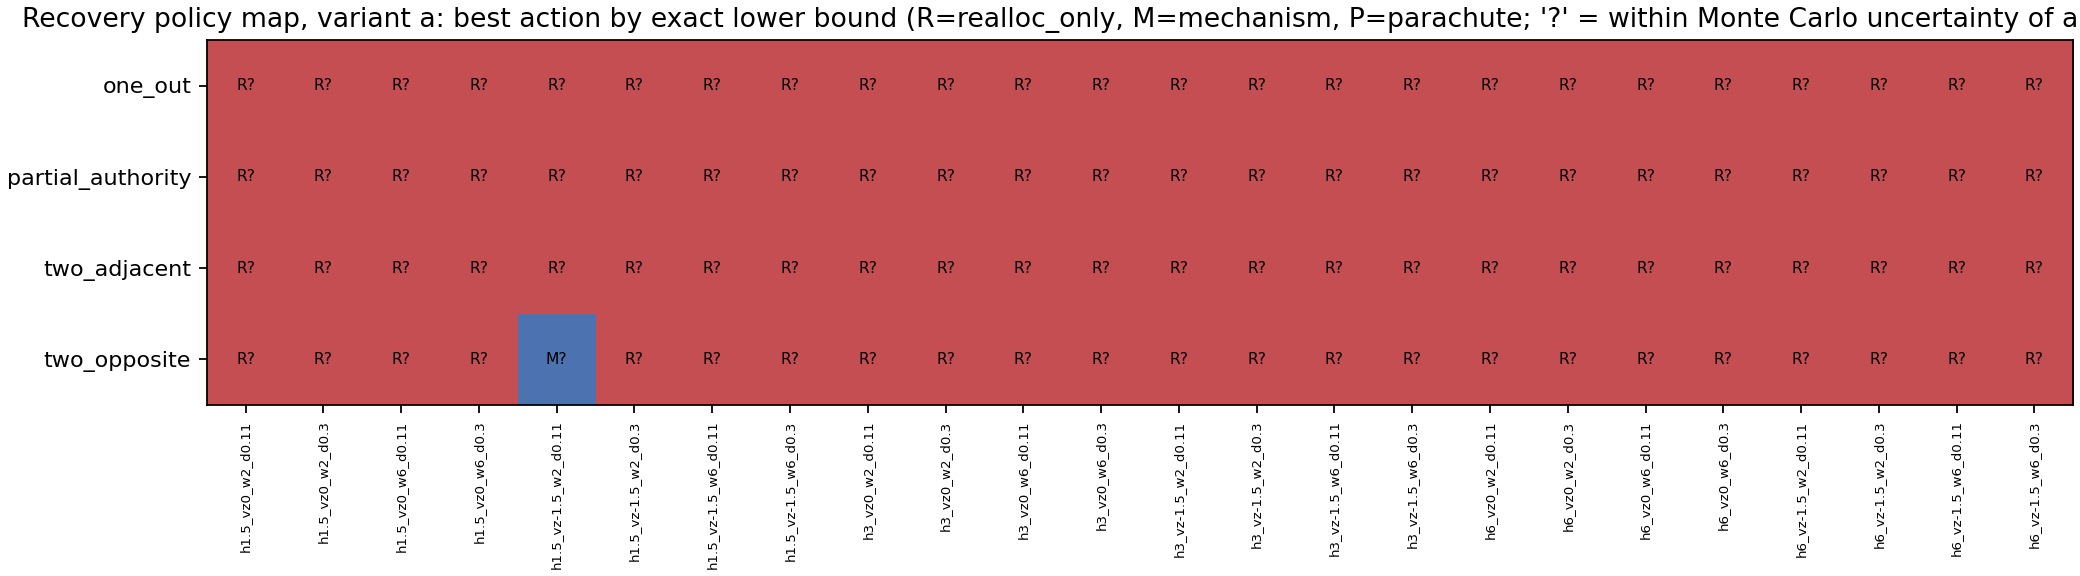
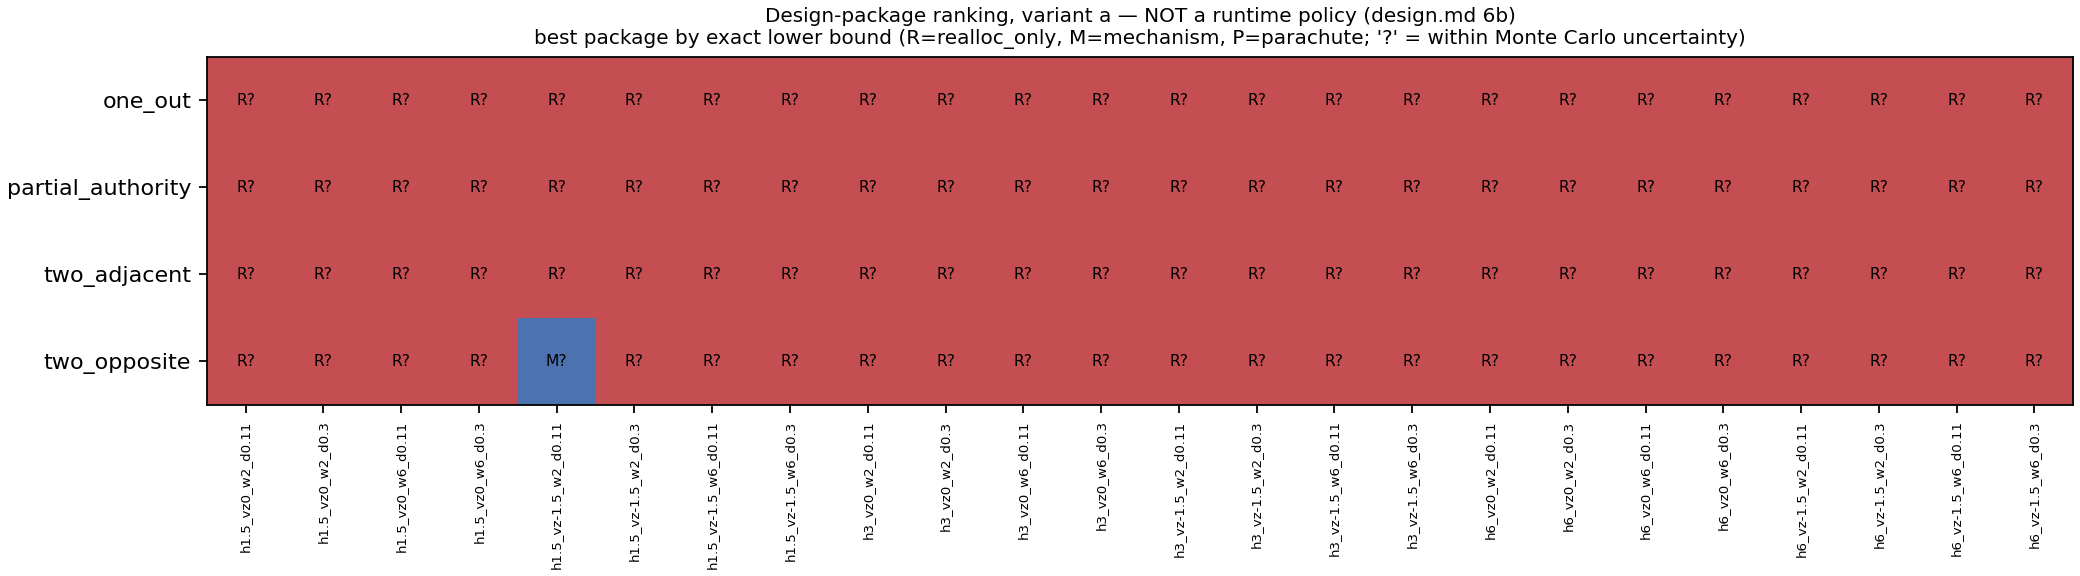
docs+fix: reconcile the scope correction, record deferred critique items, label the scenario
Follow-up to PR #36. Auditing the merged state turned up three gaps, all
introduced or claimed by me, plus the safe half of C04.

1. SELF-CONTRADICTION. PR #36 added design.md section 6b ("a design
   comparison, not a runtime policy") but left the opposite claim standing
   in the places a reader meets first: section 1 still advertised "a policy
   over the post-failure state" as the contribution, section 8 was titled
   "policy map", README called it a policy map, the novelty differentiator
   table claimed a policy as our column, and the generated figure was
   titled "Recovery policy map". All reconciled; figures regenerated. The
   JSON field stays named `policy` for file compatibility, with the spec
   stating plainly that it ranks configurations.

2. DEFERRED ITEMS WERE NOT ACTUALLY RECORDED. C04, C06, the C08 remainder
   and C10 were described as "recorded" in a merged PR description while
   existing nowhere in the repository -- exactly the drift this repo's
   conventions exist to prevent. Added
   docs/specs/survivable-set/critique-2026-09-24-status.md: all ten items,
   their status, and each deferred item stated precisely enough to act on.
   Linked from docs/data-and-figures.md.

3. NO OPEN QUESTION FOR THE GUARD'S CAUSAL MECHANISM. C05 established that
   the inverted-authority floor is enabled iff the guard is present with no
   stated mechanism, but nothing tracked it. Added OQ-013.

Also implemented, as the safe half of C04: the scenario is now named.
[…]

diff --git a/Analysis/run_survivable_set.py b/Analysis/run_survivable_set.py
@@ -169,9 +169,10 @@ def policy_figure(policy, path: Path, variant: str):
         ax.text(j, i, letter + m, ha="center", va="center", fontsize=7)
     ax.set_yticks(range(len(classes)), classes)
     ax.set_xticks(range(len(cells)), cells, rotation=90, fontsize=6)
-    ax.set_title(f"Recovery policy map, variant {variant}: best action by exact "
-                 "lower bound (R=realloc_only, M=mechanism, P=parachute; "
-                 "'?' = within Monte Carlo uncertainty of an alternative)")
+    ax.set_title(f"Design-package ranking, variant {variant} — NOT a runtime "
+                 "policy (design.md 6b)\nbest package by exact lower bound "
+                 "(R=realloc_only, M=mechanism, P=parachute; "
+                 "'?' = within Monte Carlo uncertainty)", fontsize=9)
     fig.savefig(path, dpi=160)
     plt.close(fig)
 
@@ -270,6 +271,12 @@ def preregistration_block(scale):
                    "primary": ss.PRIMARY_TRIALS // scale,
                    "parachute": ss.PARACHUTE_TRIALS // scale},
         "base_seed": ss.BASE_SEED,
+        "scenario": ss.SCENARIO,
+        "scenario_note": ("All motors are off for detection+spool latency, then "
+                          "the controller engages: a RELEASE/STARTUP transient, "
+                          "NOT an in-flight failure in which healthy motors keep "
+                          "running until detection. Every rotor-out result here "
+                          "is conditional on that reading (critique C04)."),
         "machinery_rev": ("2026-09-16: cascaded torque-priority allocation, "
                           "balanced collective ceiling (0.9 airmode reserve in "
                           "allocation mode), arrest-first descent; supersedes the "

diff --git a/Analysis/survivable_set.py b/Analysis/survivable_set.py
@@ -99,6 +99,22 @@ PARACHUTE_DEPLOY_S = 0.8                     # trigger -> canopy starts opening 
 PARACHUTE_INFLATE_S = 0.6
 PARACHUTE_TILT_MAX_RAD = radians(45.0)       # pendulum under canopy, drawn U(0, max)
 
+# SCENARIO LABEL (critique C04, 2026-09-24). The simulator cuts ALL FOUR motors
+# for detection_latency + motor_start_latency and only then engages the
+# controller. That is a RELEASE / STARTUP transient: it describes a vehicle
+# dropped with motors off, which must spool up. It is NOT an in-flight failure,
+# where the healthy motors keep running and keep following the nominal controller
+# until the fault is detected and the allocation reconfigures.
+#
+# Every rotor-out number this study produces is therefore conditional on the
+# release-startup reading, and must be labelled as such wherever it is reported.
+# Implementing the in-flight mode (`in_flight_loss`) needs its own registration:
+# the pre-failure command, the failed rotor's residual thrust, the healthy motors'
+# behaviour during detection, when fault-aware allocation begins, and whether
+# actuator response is instantaneous or lagged. See
+# docs/specs/survivable-set/critique-2026-09-24-status.md (C04).
+SCENARIO = "release_startup"
+
 DESCENT_RATE_M_S = 1.0                       # commanded touchdown descent rate
 INIT_TILT_MAX_RAD = radians(30.0)            # tilt at failure, drawn U(0, max)
 ARM_M = 0.060                                # ASSUMED build arm (matches run_sweep)

diff --git a/Analysis/tests/test_survivable_set.py b/Analysis/tests/test_survivable_set.py
@@ -193,6 +193,27 @@ class TestKillCriterion(unittest.TestCase):
         self.assertTrue(verdict["comparisons"][0]["realloc_dominates"])
 
 
+class TestScenarioLabelling(unittest.TestCase):
+    """C04: the scenario must be named, and the name must match the dynamics."""
+
+    def test_scenario_is_labelled_release_startup(self):
+        self.assertEqual(ss.SCENARIO, "release_startup")
+
+    def test_all_motors_are_off_during_the_latency_window(self):
+        """The label is only honest if the sim really cuts every motor first.
+        If someone implements in_flight_loss, this test must be updated with it,
+        not deleted."""
+        p = with_mixer(nominal_params())
+        r = simulate(p, 2.0, radians(15.0), descent_rate_m_s=1.0, t_max=4.0)
+        passive = p.detection_latency_s + p.motor_start_latency_s
+        t, thrust = r["log"]["t"], r["log"]["thrust"]
+        during = [th for ti, th in zip(t, thrust) if ti < passive]
+        self.assertTrue(during, "no samples inside the latency window")
+        self.assertEqual(max(during), 0.0,
+                         "thrust is non-zero before the controller engages, so "
+                         "'release_startup' no longer describes the dynamics")
+
+
 class TestPairedAnalysis(unittest.TestCase):
     """literature/claim-ledger.md E1: the action comparison is paired."""
 

diff --git a/docs/specs/survivable-set/critique-2026-09-24-status.md b/docs/specs/survivable-set/critique-2026-09-24-status.md
@@ -1,0 +1,80 @@
+# External critique of 2026-09-24 — item status
+
+Source: owner handoff `multirotor-recovery-dynamics_literature-critique_2026-09-24.txt`
+(planning document, outside the repo). This file is the in-repo record of what was
+applied, what was deferred and why, so that nothing survives only in a merged pull
+request description. Created 2026-09-24 after noticing that C04/C06/C08/C10 were
+described as "recorded" while existing nowhere in the repository.
+
+Applied items were merged in PR #36; the consistency follow-ups in this file's own
+change. Status values: **applied** / **partly applied** / **deferred (recorded)**.
+
+| # | Item | Status | Where |
+| --- | --- | --- | --- |
+| C01 | Separate design selection from actions available in flight | **applied** | `design.md` §6b; `Analysis/current-results.md`; §1 and §8 reconciled 2026-09-24 |
+| C02 | Correct novelty claims (detection-delay distribution; sub-35 g counterexample) | **applied** | `literature/notes/01` §6, `notes/02` §4, ledger G2/G3, `novelty-and-gaps.md` |
+| C03 | Repair parachute evidence provenance; stop calling calibration validation | **applied** | `Analysis/survivable_set.py`, renamed test, `design.md` §4, ledger C1 |
+| C04 | Make the failure scenario and recovery metric physically consistent | **partly applied** | scenario now named and emitted (`design.md` §6a, `SCENARIO`, `scenario` field, test); the `in_flight_loss` mode and the three outcome definitions remain deferred — see below |
+| C05 | Do not attribute the guard's benefit to an arbitrary controller restriction | **applied** | `design.md` §6b |
+| C06 | Preserve bench instrumentation; add an observability contract | **deferred (recorded)** | see below |
+| C07 | Correct the spin-scaling argument | **applied** | `literature/notes/01` §6, ledger G2 |
+| C08 | Treat touchdown limits as an unvalidated proxy, not airframe survival | **partly applied** | `literature/notes/04` §7–8 already frames the band as an analogy; the contact-state record and load-cell bandwidth limits are deferred |
+| C09 | Improve statistics without overstating what pairing proves | **applied** | `Analysis/survivable_set.py` (Δ added), ledger E1/E2, `notes/05` |
+| C10 | Bound what "the boundary" means | **deferred (recorded)** | see below |
+
+## Deferred items, stated precisely enough to act on later
+
+**C04 — scenario and metric consistency.** *Partly applied 2026-09-24: the mode is
+now labelled `release_startup` in code and in every results file, with a test that
+fails if the dynamics stop matching the label. The modelling work below is what
+remains.* The simulator still cuts *all* motors
+for detection + startup latency, which is a release-startup scenario, not an
+in-flight failure: healthy motors should retain their states and follow the
+nominal controller until reconfiguration. The failure mode also needs specifying
+(motor stop vs propeller loss vs effectiveness loss vs power loss — these differ
+in thrust, torque, drag and inertia transients). Separately, the generic settled
+detector requires `‖ω‖ < 0.3 rad/s`, which is incompatible with a deliberately
+spinning equilibrium; it is **not** the landing classifier used by this study, so
+it did not cause the current results, but it cannot be reused as a
+spinning-recovery success flag. Three outcomes should be distinguished:
+(a) reduced-attitude regulation, (b) recovery before contact, with altitude
+consumed recorded, (c) landing/impact outcome. This is already open as F02 in
+`review-2026-09-19.md`; C04 sharpens it. **Blocks:** any claim that the study
+models an in-flight failure.
+
+**C06 — observability contract.** One row per desired output: quantity, sensor or
+source, frame, timing, range, uncertainty, availability. Aggregate force/current,
+specific force and beam events cannot establish per-motor thrust, body rates, full
+attitude, trajectory or failure identity, and must not be plotted with surrogate
+labels. For any future attitude sensing, record sample/filter delay, per-axis gyro
+range, clipping, and sensor position relative to CG — an offset sensor also feels
+`α × r` and `ω × (ω × r)` terms (20 rad/s at 10 mm ⇒ ~4 m/s² centripetal, which is
+not gravity tilt). **Home when actioned:** `docs/bench-acquisition.md`.
+
+**C08 remainder — contact-state record and instrument bandwidth.** A contact
+record should carry vertical and lateral velocity, attitude, angular velocity,
+surface, contact location, configuration and specimen history, with physical
+damage and post-event function stored independently of the kinematic proxy. The
+purchased static load-cell chain must not be promoted into an impact instrument:
+at 80 SPS samples are 12.5 ms apart (3.125 ms even at 320 SPS) before filter
+delay, so peak force needs demonstrated bandwidth and adequate samples over the
+contact. Repeated drops on one damaged specimen are not independent trials.
+
+**C10 — bound what "the boundary" means.** The map is conditional on limited
+tilt/tumble axes, one failure location per class, assumed parameter distributions
+and a landing proxy. Monte Carlo bounds quantify finite sampling *under that
+model*; they do not cover model error or real-world reliability, and more samples
+shrink only the first. Observational variation, specimen/condition variation and
+unknown parameters should be reported separately, with a scenario bracket rather
+than an invented uniform distribution where no data supports one. An executable
+selector observes *estimates*, not true state, so state uncertainty and diagnosis
+confidence belong in any future policy evaluation; an oracle policy is a labelled
+upper benchmark only.
+
+## Not accepted as stated
+
+None of the ten was rejected. C02's sub-35 g counterexample was **narrowed** on
+verification: Çintaş & Özyer (2026) demonstrate real-flight FTC at 30.6 g for
+**partial rotor-speed degradation**, not complete rotor loss, and the paper draws
+that distinction itself. It is therefore prior art for the `partial_authority`
+class, and the complete-loss statement survives as search-bounded.

diff --git a/docs/specs/survivable-set/design.md b/docs/specs/survivable-set/design.md
@@ -12,10 +12,16 @@ dedicated recovery mechanism (the guard) enlarge the survivable set beyond what
 thrust reallocation alone achieves?
 
 Known (not claimed as novel here): controlled flight after one- and two-rotor loss
-via thrust reallocation; parachute recovery of small UAS. Open (this study's
-contribution): a *policy* over the post-failure state that selects among actions,
-with a quantified survivable set that includes recovery delay and authority loss —
-and whether the mechanism is justified at all.
+via thrust reallocation — including two-adjacent loss in outdoor flight; parachute
+recovery of small UAS **at ≥900 g** (not established at sub-250 g).
+
+**What this study actually delivers, corrected 2026-09-24 (§6b):** a quantified
+comparison of **design packages** over the post-failure state, with recovery delay
+and authority loss as state coordinates, and a test of whether the mechanism is
+justified. It does **not** deliver a runtime policy: its cases differ in installed
+hardware, and no aircraft can choose its own mass in flight. A runtime policy over
+`A(c)` for one fixed configuration remains **specified but not performed** — see
+§6b and `literature/novelty-and-gaps.md`.
 
 ## 2. Post-failure state space
 
@@ -155,13 +161,34 @@ battery sag. Deterministic seeding per (class, cell, action, chunk) — base see
 The mechanism is justified **only if**, in at least one primary (class × cell), its
 95% lower bound exceeds `realloc_only`'s 95% upper bound — dominance beyond Monte
 Carlo uncertainty. Ties inside uncertainty do **not** justify it. If killed, the
-result is reported as such and the work redirects to the policy alone (Study B);
+result is reported as such and the work redirects to the package ranking alone (Study B);
 the mechanism is not redesigned first (see the plan's "do not" clause).
 
 Interpretation clause: a kill reached because **both** actions fail in a cell
 (`both_actions_fail` in the output) is a controller finding, not evidence that the
 actions are interchangeable — it redirects to the controller follow-on below, and
 the mechanism question stays open only if a future controller separates the actions.
+
+## 6a. Scenario label (amendment, 2026-09-24)
+
+Critique C04. The simulator cuts **all four motors** for
+`detection_latency + motor_start_latency` and only then engages the controller.
+That is a **release/startup transient** — a vehicle dropped with motors off which
+must spool up. It is **not** an in-flight failure, where healthy motors keep
+running under the nominal controller until detection and reconfiguration.
+
+The mode is now named in code (`Analysis/survivable_set.py: SCENARIO`) and emitted
+in every results file as `scenario: "release_startup"`, with a test asserting the
+dynamics still match the label. **Every rotor-out result in this study is
+conditional on that reading and must be reported with it.**
+
+An `in_flight_loss` mode needs its own registration before use, specifying: the
+pre-failure command; the failed rotor's residual thrust during detection; the
+healthy motors' behaviour during detection; when fault-aware allocation begins;
+whether actuator response is instantaneous or lagged; and whether the initial
+state is trim-consistent. Failure type must also be specified — motor stop,
+propeller loss, effectiveness loss and power loss differ in their thrust, torque,
+drag and inertia transients.
 
 ## 6b. Configuration vs action — scope correction (amendment, 2026-09-24)
 
@@ -281,11 +308,16 @@ that spinning flight needs a reduced-attitude, spin-aware controller. That
 controller is the study's follow-on (Study A2), and it is a *controls* work item,
 not a mechanism redesign.
 
-## 8. Study B — policy map
+## 8. Study B — package ranking (formerly "policy map")
 
-Best action per (class, cell) by exact lower bound; every alternative whose interval
-overlaps the winner's lower bound is listed as ambiguous. The map must say where it
-cannot distinguish.
+Best-performing **package** per (class, cell) by exact lower bound; every
+alternative whose interval overlaps the winner's lower bound is listed as
+ambiguous. The map must say where it cannot distinguish.
+
+**Naming, corrected 2026-09-24 (§6b):** the generated field is still called
+`policy` for file compatibility, but it ranks *configurations*, not in-flight
+choices. Read "best action" as "best-performing package". A genuine runtime policy
+needs one fixed configuration and `A(c)` executable on it.
 
 ## 9. Outputs and evidence category
 
@@ -300,4 +332,4 @@ have run.
 
 Mechanism mass/inertia fractions, guarded impact tolerance, parachute terminal
 speed and deployment delay — or the decision that no parachute variant exists, which
-removes that action from the policy.
+removes that action from the ranking. (As of 2026-09-24 the parachute action is UNAVAILABLE in every configuration we own — §6b.)

diff --git a/OPEN_QUESTIONS.md b/OPEN_QUESTIONS.md
@@ -17,6 +17,8 @@ Track unresolved design decisions here. Close each item with evidence rather tha
 | OQ-011 | Does the stock Veeniix V995 board expose any telemetry, command or programming interface (the `CLK` pad group, U46C-family receiver-board lead), and which MCU/IMU is on it? | Owner (B01 close-up photos, B03 continuity map) + Claude (B02 datasheet match, B04 decision) | Readable chip markings; power-off pad/net map; datasheet identity — a pad label is not a port | OPEN (path 1 independent instrumentation is the working assumption; see `evidence/week-2026-09-19/platform-capabilities.md`) |
 | OQ-012 | Which purchased load cell (1 kg PID 4540 or 5 kg PID 4541) carries the V995 whole-drone cradle, and does the NAU7802 chain resolve the ~0.49 N hover-equivalent force to the exploratory 5 % target? | Owner (installed load budget, reference masses) + Claude (calibration analysis) | Installed load budget incl. cradle/preload/off-axis; installed calibration with holdouts, hysteresis and drift (R3.5–R3.8); target stays undecided until F_ref_use and an uncertainty budget exist | OPEN (this is a different fixture from the DR-CAD-12 single-motor stand; D2 for that stand stays pending on its own scope) |
 
+| OQ-013 | What is the guard's causal mechanism for airborne recovery, and what evidence supports it — does it prevent rotor contact, preserve clearance under load, decouple contact torque, absorb deformation energy, or change drag? | Owner (mechanism statement) + drop/contact evidence | A written mechanism plus evidence for that specific construction; Briod et al. (2014) support a cage on a passive three-axis gimbal, which is NOT equivalent to rigid propeller rings | OPEN (until answered, the inverted-authority floor's coupling to guard presence is unjustified and guard causation cannot be claimed — `docs/specs/survivable-set/design.md` §6b) |
+
 ## Milestone Schedule
 
 Target dates are placeholders until the student fills them in against their actual semester schedule.

diff --git a/README.md b/README.md
@@ -35,7 +35,7 @@ nominal motor-envelope CAD and bench preparation—not a finished recovery vehic
 | Bench preparation | [Input requests](cad/bench/input-requests.csv) and [fixture requirements](cad/bench/fixture-preparation.md) | Vendor proposals are not measurements or purchased parts |
 | Measured-authority gate | [Registered evidence contract](docs/specs/measured-authority-gate/) | Actual thrust, installed geometry and recovery evaluation pending |
 | Literature review | [Index](literature/README.md), [claim ledger](literature/claim-ledger.md), [novelty and gaps](literature/novelty-and-gaps.md), [references.bib](literature/references.bib) | External sources verified online at assembly; unresolved items quarantined, not cited |
-| Survivable-set study (A/A2/B) | [Preregistration](docs/specs/survivable-set/design.md), [spin-aware variant](docs/specs/survivable-set/design-a2.md), motor-failure allocation, policy map with exact bounds, [registered drop-test prediction](docs/specs/survivable-set/drop-test-prediction.md) | Simulation on EST action inputs (OQ-010); no hardware claim until the bench and drop gates run |
+| Survivable-set study (A/A2/B) | [Preregistration](docs/specs/survivable-set/design.md), [spin-aware variant](docs/specs/survivable-set/design-a2.md), motor-failure allocation, design-package ranking with exact bounds, [registered drop-test prediction](docs/specs/survivable-set/drop-test-prediction.md) | Simulation on EST action inputs (OQ-010); compares **design packages**, not in-flight actions (`design.md` §6b); no hardware claim until the bench and drop gates run |
 
 ![Simulated altitude loss and recoverable tumble rate across component tiers](Figures/release_recovery_envelope.png)
 

diff --git a/literature/novelty-and-gaps.md b/literature/novelty-and-gaps.md
@@ -95,9 +95,10 @@ our positioning.
 
 | | Siotia et al. (2026) | This repo |
 | --- | --- | --- |
-| Trigger | stall detection → deployment **threshold** | **policy** over a gridded post-failure state |
+| Trigger | stall detection → deployment **threshold** | ranking over a gridded post-failure state (a *policy* is the stated goal, **not yet delivered** — see Status row) |
 | State | altitude | (h, v_z, tumble rate, **detection delay**) × failure class |
-| Actions | stabilise **or** deploy | reallocation / mechanism / descent device, compared |
+| Status | published result | **package comparison performed; runtime policy specified but NOT performed** (§ scope correction) |
+| Actions | stabilise **or** deploy | reallocation / mechanism / descent device — compared as **whole aircraft configurations**, not as choices one aircraft can make |
 | Output | a decision rule | **P(survivable landing) per cell with exact bounds** |
 | Failure mode | stall / loss of control, unspecified cause | **specified propulsion-failure classes** |
 | Validation | HIL + simulation, 2 kg, no free-flight drops | simulation on EST inputs, sub-250 g, preregistered |

diff --git a/Analysis/current-results.md b/Analysis/current-results.md
@@ -207,6 +207,13 @@ Results, both controller variants (baseline PD and spin-aware A2):
   under the registered interpretation clause this is a *controller* finding,
   not evidence the actions are interchangeable, and it blocks mechanism
   redesign rather than motivating it.
+- **SCENARIO CAVEAT (2026-09-24, critique C04):** the simulator cuts **all four
+  motors** for detection + spool latency before the controller engages. That is a
+  **release/startup transient**, not an in-flight failure in which the healthy
+  motors keep running until the fault is detected. Every rotor-out number below is
+  conditional on that reading. The generated JSON now carries
+  `scenario: "release_startup"`. Implementing `in_flight_loss` requires its own
+  registration — see `docs/specs/survivable-set/critique-2026-09-24-status.md`.
 - **SCOPE CORRECTION (2026-09-24, `design.md` §6b): this is a comparison of
   design packages, not a runtime policy.** `realloc_only` removes the guard's
   mass and inertia; `mechanism` keeps it. An airborne vehicle cannot choose to

diff --git a/docs/data-and-figures.md b/docs/data-and-figures.md
@@ -90,7 +90,7 @@ Action parameters marked EST are owner inputs (OQ-010); the preregistrations in
 [`design-a2.md`](specs/survivable-set/design-a2.md) freeze criteria, cells,
 seeds, machinery revisions, and the mechanism kill criterion. The drop-test
 prediction registered before any hardware drop lives in
-[`drop-test-prediction.md`](specs/survivable-set/drop-test-prediction.md).
+[`drop-test-prediction.md`](specs/survivable-set/drop-test-prediction.md). Scope limits and the status of the 2026-09-24 external critique are in [`critique-2026-09-24-status.md`](specs/survivable-set/critique-2026-09-24-status.md) — note that the `policy` field ranks **design packages**, not in-flight actions.
 
 ## Bench acquisition (V995 demonstrator, planned)
 
